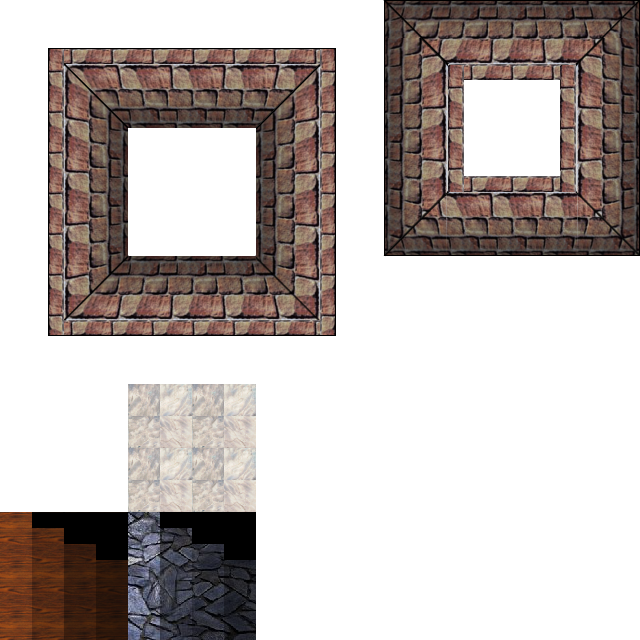
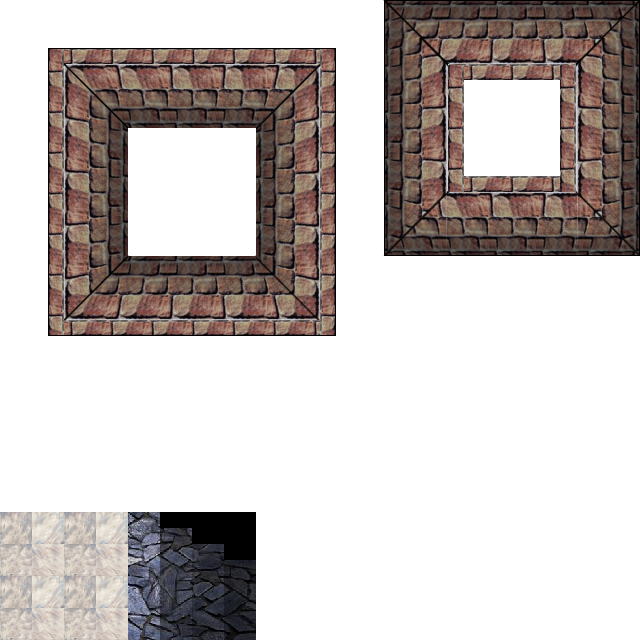
test

Changed region(s): [[0.0, 0.5938, 0.4062, 1.0]]

diff --git a/core/src/main/java/org/dotme/sprite/MapChipSprite.java b/core/src/main/java/org/dotme/sprite/MapChipSprite.java
@@ -3,10 +3,8 @@ package org.dotme.sprite;
 import static playn.core.PlayN.graphics;
 
 import java.awt.Rectangle;
-import java.util.List;
 
 import org.dotme.core.math.Vector2;
-import org.dotme.core.math.Vector2withDegree;
 
 import playn.core.Image;
 import playn.core.Layer;
@@ -80,15 +78,20 @@ public class MapChipSprite implements Sprite {
 							&& (tx < layer.width() + this.frameHeight)
 							&& (ty > -1.0f * this.frameWidth)
 							&& (ty < layer.height() + this.frameHeight)) {
-						Rectangle source = new Rectangle((int) ((block
-								.getFrame() * this.frameWidth) % texture
-								.width()), (int) (Math
-								.floor((block.getFrame() * this.frameWidth)
-										/ texture.width()) * this.frameHeight),
-								(int) this.frameWidth, (int) this.frameHeight);
-						surf.drawImage(this.texture, tx, ty, this.frameWidth,
-								this.frameHeight, source.x, source.y,
-								source.width, source.height);
+
+						if (block.getFrame() >= 0) {
+							Rectangle source = new Rectangle(
+									(int) ((block.getFrame() * this.frameWidth) % texture
+											.width()),
+									(int) (Math.floor((block.getFrame() * this.frameWidth)
+											/ texture.width()) * this.frameHeight),
+									(int) this.frameWidth,
+									(int) this.frameHeight);
+							surf.drawImage(this.texture, tx, ty,
+									this.frameWidth, this.frameHeight,
+									source.x, source.y, source.width,
+									source.height);
+						}
 					}
 				}
 			}

diff --git a/core/src/main/java/org/dotme/arpg/MapGenerator.java b/core/src/main/java/org/dotme/arpg/MapGenerator.java
@@ -11,7 +11,7 @@ public class MapGenerator {
 	public static final int MAP_WEST = 2;
 	public static final int MAP_EAST = 3;
 
-	private static final MapChip w1_c = new MapChip(6,
+	private static final MapChip w1_c = new MapChip(-1,
 			MapChip.MAPCHIP_TYPE_WALL, "w1_c");
 	private static final MapChip w1_tl1 = new MapChip(0,
 			MapChip.MAPCHIP_TYPE_WALL, "w1_tl1");
@@ -37,7 +37,7 @@ public class MapGenerator {
 			MapChip.MAPCHIP_TYPE_WALL, "w1_tr2");
 	private static final MapChip w1_tl2 = new MapChip(9,
 			MapChip.MAPCHIP_TYPE_WALL, "w1_tl2");
-	private static final MapChip f1 = new MapChip(16,
+	private static final MapChip f1 = new MapChip(20,
 			MapChip.MAPCHIP_TYPE_FLOOR, "f1");
 	private static final MapChip s1 = new MapChip(21,
 			MapChip.MAPCHIP_TYPE_DOWNSTAIR, "s1");

diff --git a/core/src/main/java/org/dotme/arpg/ARPGContext.java b/core/src/main/java/org/dotme/arpg/ARPGContext.java
@@ -39,7 +39,7 @@ public class ARPGContext {
 				SpriteConstants.TILE_SIZE_DEFAULT, graphics().width(),
 				graphics().height());
 		mapGenerator = new MapGenerator();
-		MapChip[][] mapChips = mapGenerator.generate(2, 2);
+		MapChip[][] mapChips = mapGenerator.generate(4, 3);
 		viewPoint = new Vector2(0, 0);
 
 		mapChipSprite.setOffset(viewPoint);
@@ -59,7 +59,7 @@ public class ARPGContext {
 			characters.add(player);
 			ARPGUtils.warpToRandomPoint(player, mapChipSprite,
 					characterPreviousPoints);
-			for (int i = 0; i < 1; i++) {
+			for (int i = 0; i < 5; i++) {
 				EnemyCharacter enemy = (EnemyCharacter) MasterData.enemyData
 						.get(0).clone();
 				characters.add(enemy);

diff --git a/core/src/main/java/org/dotme/arpg/EnemyCharacter.java b/core/src/main/java/org/dotme/arpg/EnemyCharacter.java
@@ -282,8 +282,12 @@ public class EnemyCharacter extends BaseCharacter {
 						Vector2 mapPt = ARPGUtils.getMapPoint(this);
 						if ((this.nextPath.x == mapPt.x)
 								&& (this.nextPath.y == mapPt.y)) {
-							this.nextPath = this.path.get(0);
-							this.path.remove(0);
+							if (this.path != null && this.path.size() > 0) {
+								this.nextPath = this.path.get(0);
+								this.path.remove(0);
+							} else {
+								this.nextPath = null;
+							}
 						}
 						if (this.nextPath != null) {
 							Vector2 nextPoint = new Vector2(

diff --git a/core/src/main/java/org/dotme/arpg/BaseCharacter.java b/core/src/main/java/org/dotme/arpg/BaseCharacter.java
@@ -191,7 +191,8 @@ public abstract class BaseCharacter extends Vector2 implements Cloneable {
 							ARPGUtils.addEffect(this.x, this.y,
 									MasterData.EFFECT_ANIMATION_PARRIED);
 						}
-						// this.context.playSound(CharacterSpriteContainer.ANIMATION_PARRIED);
+						ARPGUtils
+								.playSound(MasterData.EFFECT_ANIMATION_PARRIED);
 					}
 					this.vX = Math.cos(this.direction * Math.PI / 180) * -1;
 					this.vY = Math.sin(this.direction * Math.PI / 180) * -1;

diff --git a/core/src/main/java/org/dotme/sprite/MapChip.java b/core/src/main/java/org/dotme/sprite/MapChip.java
@@ -1,17 +1,5 @@
 package org.dotme.sprite;
 
-import static playn.core.PlayN.graphics;
-
-import java.awt.Rectangle;
-import java.util.List;
-
-import org.dotme.core.math.Vector2;
-import org.dotme.core.math.Vector2withDegree;
-
-import playn.core.Image;
-import playn.core.Layer;
-import playn.core.Surface;
-import playn.core.SurfaceLayer;
 
 public class MapChip {
 	public static final int MAPCHIP_TYPE_EMPTY = 0;
